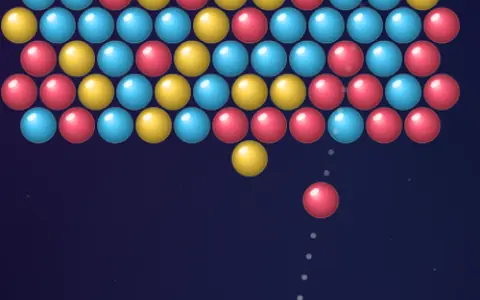
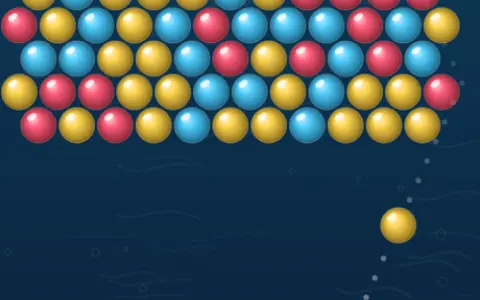
Final: restyled 9 games, easier starts, sw regen

diff --git a/sw.js b/sw.js
@@ -1,5 +1,5 @@
 // 离线缓存：首次访问后全部游戏都可断网游玩（GitHub Pages / 任意 https 静态托管）
-const V='neon-de1ac2ac08',FILES=["./", "2048/game.js", "2048/index.html", "asteroids/game.js", "asteroids/index.html", "balloon/game.js", "balloon/index.html", "battleship/game.js", "battleship/index.html", "boat/game.js", "boat/index.html", "bomber/game.js", "bomber/index.html", "breakout/game.js", "breakout/index.html", "bubble/game.js", "bubble/index.html", "charades/game.js", "charades/index.html", "chess/engine.js", "chess/game.js", "chess/index.html", "colorcards/game.js", "colorcards/index.html", "common/art.js", "common/hub.css", "common/hub.js", "common/i18n.js", "common/party.js", "connect4/game.js", "connect4/index.html", "doudizhu/game.js", "doudizhu/index.html", "draw/game.js", "draw/index.html", "echobat/game.js", "echobat/index.html", "fishy/game.js", "fishy/index.html", "flappy/game.js", "flappy/index.html", "freecell/game.js", "freecell/index.html", "goldminer/game.js", "goldminer/index.html", "golf/game.js", "golf/index.html", "gomoku/game.js", "gomoku/index.html", "hex2048/game.js", "hex2048/index.html", "hockey/game.js", "hockey/index.html", "icons/apple-touch-icon.png", "icons/icon-192.png", "icons/icon-512.png", "icons/icon.svg", "icons/maskable-512.png", "icons/og.png", "index.html", "jump/game.js", "jump/index.html", "klotski/game.js", "klotski/index.html", "knife/game.js", "knife/index.html", "lianliankan/game.js", "lianliankan/index.html", "lighthouse/game.js", "lighthouse/index.html", "lightsout/game.js", "lightsout/index.html", "ludo/game.js", "ludo/index.html", "mahjong/game.js", "mahjong/index.html", "manifest.webmanifest", "match3/game.js", "match3/index.html", "memory/game.js", "memory/index.html", "merge/game.js", "merge/index.html", "minesweeper/game.js", "minesweeper/index.html", "mirror/game.js", "mirror/index.html", "ninja/game.js", "ninja/index.html", "numbomb/game.js", "numbomb/index.html", "onestroke/game.js", "onestroke/index.html", "orbit/game.js", "orbit/index.html", "pacman/game.js", "pacman/index.html", "paint/game.js", "paint/index.html", "piano/game.js", "piano/index.html", "pinball/game.js", "pinball/index.html", "pipes/game.js", "pipes/index.html", "pong/game.js", "pong/index.html", "quiz/game.js", "quiz/index.html", "racer/game.js", "racer/index.html", "reflex/game.js", "reflex/index.html", "reversi/game.js", "reversi/index.html", "rhythm/game.js", "rhythm/index.html", "runner/game.js", "runner/index.html", "shooter/game.js", "shooter/index.html", "slingshot/game.js", "slingshot/index.html", "snake/game.js", "snake/index.html", "snowball/game.js", "snowball/index.html", "soccer/game.js", "soccer/index.html", "sokoban/game.js", "sokoban/index.html", "spider/game.js", "spider/index.html", "stack/game.js", "stack/index.html", "subway/game.js", "subway/index.html", "sudoku/game.js", "sudoku/index.html", "tangram/game.js", "tangram/index.html", "tank/game.js", "tank/index.html", "tetris/game.js", "tetris/index.html", "thumbs/2048.webp", "thumbs/asteroids.webp", "thumbs/balloon.webp", "thumbs/battleship.webp", "thumbs/boat.webp", "thumbs/bomber.webp", "thumbs/breakout.webp", "thumbs/bubble.webp", "thumbs/charades.webp", "thumbs/chess.webp", "thumbs/colorcards.webp", "thumbs/connect4.webp", "thumbs/doudizhu.webp", "thumbs/draw.webp", "thumbs/echobat.webp", "thumbs/fishy.webp", "thumbs/flappy.webp", "thumbs/freecell.webp", "thumbs/goldminer.webp", "thumbs/golf.webp", "thumbs/gomoku.webp", "thumbs/hex2048.webp", "thumbs/hockey.webp", "thumbs/jump.webp", "thumbs/klotski.webp", "thumbs/knife.webp", "thumbs/lianliankan.webp", "thumbs/lighthouse.webp", "thumbs/lightsout.webp", "thumbs/ludo.webp", "thumbs/mahjong.webp", "thumbs/match3.webp", "thumbs/memory.webp", "thumbs/merge.webp", "thumbs/minesweeper.webp", "thumbs/mirror.webp", "thumbs/ninja.webp", "thumbs/numbomb.webp", "thumbs/onestroke.webp", "thumbs/orbit.webp", "thumbs/pacman.webp", "thumbs/paint.webp", "thumbs/piano.webp", "thumbs/pinball.webp", "thumbs/pipes.webp", "thumbs/pong.webp", "thumbs/quiz.webp", "thumbs/racer.webp", "thumbs/reflex.webp", "thumbs/reversi.webp", "thumbs/rhythm.webp", "thumbs/runner.webp", "thumbs/shooter.webp", "thumbs/slingshot.webp", "thumbs/snake.webp", "thumbs/snowball.webp", "thumbs/soccer.webp", "thumbs/sokoban.webp", "thumbs/spider.webp", "thumbs/stack.webp", "thumbs/subway.webp", "thumbs/sudoku.webp", "thumbs/tangram.webp", "thumbs/tank.webp", "thumbs/tetris.webp", "thumbs/towerdef.webp", "thumbs/truth.webp", "thumbs/undercover.webp", "thumbs/uttt.webp", "thumbs/werewolf.webp", "thumbs/whack.webp", "thumbs/xiangqi.webp", "towerdef/game.js", "towerdef/index.html", "truth/game.js", "truth/index.html", "undercover/game.js", "undercover/index.html", "uttt/game.js", "uttt/index.html", "werewolf/game.js", "werewolf/index.html", "whack/game.js", "whack/index.html", "xiangqi/game.js", "xiangqi/index.html"];
+const V='neon-ce772de456',FILES=["./", "2048/game.js", "2048/index.html", "asteroids/game.js", "asteroids/index.html", "balloon/game.js", "balloon/index.html", "battleship/game.js", "battleship/index.html", "boat/game.js", "boat/index.html", "bomber/game.js", "bomber/index.html", "breakout/game.js", "breakout/index.html", "bubble/game.js", "bubble/index.html", "charades/game.js", "charades/index.html", "chess/engine.js", "chess/game.js", "chess/index.html", "colorcards/game.js", "colorcards/index.html", "common/art.js", "common/hub.css", "common/hub.js", "common/i18n.js", "common/party.js", "connect4/game.js", "connect4/index.html", "doudizhu/game.js", "doudizhu/index.html", "draw/game.js", "draw/index.html", "echobat/game.js", "echobat/index.html", "fishy/game.js", "fishy/index.html", "flappy/game.js", "flappy/index.html", "freecell/game.js", "freecell/index.html", "goldminer/game.js", "goldminer/index.html", "golf/game.js", "golf/index.html", "gomoku/game.js", "gomoku/index.html", "hex2048/game.js", "hex2048/index.html", "hockey/game.js", "hockey/index.html", "icons/apple-touch-icon.png", "icons/icon-192.png", "icons/icon-512.png", "icons/icon.svg", "icons/maskable-512.png", "icons/og.png", "index.html", "jump/game.js", "jump/index.html", "klotski/game.js", "klotski/index.html", "knife/game.js", "knife/index.html", "lianliankan/game.js", "lianliankan/index.html", "lighthouse/game.js", "lighthouse/index.html", "lightsout/game.js", "lightsout/index.html", "ludo/game.js", "ludo/index.html", "mahjong/game.js", "mahjong/index.html", "manifest.webmanifest", "match3/game.js", "match3/index.html", "memory/game.js", "memory/index.html", "merge/game.js", "merge/index.html", "minesweeper/game.js", "minesweeper/index.html", "mirror/game.js", "mirror/index.html", "ninja/game.js", "ninja/index.html", "numbomb/game.js", "numbomb/index.html", "onestroke/game.js", "onestroke/index.html", "orbit/game.js", "orbit/index.html", "pacman/game.js", "pacman/index.html", "paint/game.js", "paint/index.html", "piano/game.js", "piano/index.html", "pinball/game.js", "pinball/index.html", "pipes/game.js", "pipes/index.html", "pong/game.js", "pong/index.html", "quiz/game.js", "quiz/index.html", "racer/game.js", "racer/index.html", "reflex/game.js", "reflex/index.html", "reversi/game.js", "reversi/index.html", "rhythm/game.js", "rhythm/index.html", "runner/game.js", "runner/index.html", "shooter/game.js", "shooter/index.html", "slingshot/game.js", "slingshot/index.html", "snake/game.js", "snake/index.html", "snowball/game.js", "snowball/index.html", "soccer/game.js", "soccer/index.html", "sokoban/game.js", "sokoban/index.html", "spider/game.js", "spider/index.html", "stack/game.js", "stack/index.html", "subway/game.js", "subway/index.html", "sudoku/game.js", "sudoku/index.html", "tangram/game.js", "tangram/index.html", "tank/game.js", "tank/index.html", "tetris/game.js", "tetris/index.html", "thumbs/2048.webp", "thumbs/asteroids.webp", "thumbs/balloon.webp", "thumbs/battleship.webp", "thumbs/boat.webp", "thumbs/bomber.webp", "thumbs/breakout.webp", "thumbs/bubble.webp", "thumbs/charades.webp", "thumbs/chess.webp", "thumbs/colorcards.webp", "thumbs/connect4.webp", "thumbs/doudizhu.webp", "thumbs/draw.webp", "thumbs/echobat.webp", "thumbs/fishy.webp", "thumbs/flappy.webp", "thumbs/freecell.webp", "thumbs/goldminer.webp", "thumbs/golf.webp", "thumbs/gomoku.webp", "thumbs/hex2048.webp", "thumbs/hockey.webp", "thumbs/jump.webp", "thumbs/klotski.webp", "thumbs/knife.webp", "thumbs/lianliankan.webp", "thumbs/lighthouse.webp", "thumbs/lightsout.webp", "thumbs/ludo.webp", "thumbs/mahjong.webp", "thumbs/match3.webp", "thumbs/memory.webp", "thumbs/merge.webp", "thumbs/minesweeper.webp", "thumbs/mirror.webp", "thumbs/ninja.webp", "thumbs/numbomb.webp", "thumbs/onestroke.webp", "thumbs/orbit.webp", "thumbs/pacman.webp", "thumbs/paint.webp", "thumbs/piano.webp", "thumbs/pinball.webp", "thumbs/pipes.webp", "thumbs/pong.webp", "thumbs/quiz.webp", "thumbs/racer.webp", "thumbs/reflex.webp", "thumbs/reversi.webp", "thumbs/rhythm.webp", "thumbs/runner.webp", "thumbs/shooter.webp", "thumbs/slingshot.webp", "thumbs/snake.webp", "thumbs/snowball.webp", "thumbs/soccer.webp", "thumbs/sokoban.webp", "thumbs/spider.webp", "thumbs/stack.webp", "thumbs/subway.webp", "thumbs/sudoku.webp", "thumbs/tangram.webp", "thumbs/tank.webp", "thumbs/tetris.webp", "thumbs/towerdef.webp", "thumbs/truth.webp", "thumbs/undercover.webp", "thumbs/uttt.webp", "thumbs/werewolf.webp", "thumbs/whack.webp", "thumbs/xiangqi.webp", "towerdef/game.js", "towerdef/index.html", "truth/game.js", "truth/index.html", "undercover/game.js", "undercover/index.html", "uttt/game.js", "uttt/index.html", "werewolf/game.js", "werewolf/index.html", "whack/game.js", "whack/index.html", "xiangqi/game.js", "xiangqi/index.html"];
 self.addEventListener('install',e=>{e.waitUntil(caches.open(V).then(c=>c.addAll(FILES)).then(()=>self.skipWaiting()))});
 self.addEventListener('activate',e=>{e.waitUntil(caches.keys().then(ks=>Promise.all(ks.filter(k=>k!==V).map(k=>caches.delete(k)))).then(()=>self.clients.claim()))});
 self.addEventListener('fetch',e=>{if(e.request.method!=='GET')return;e.respondWith(caches.match(e.request,{ignoreSearch:true}).then(r=>r||fetch(e.request).then(res=>{if(res.ok&&new URL(e.request.url).origin===location.origin){const cp=res.clone();caches.open(V).then(c=>c.put(e.request,cp))}return res}).catch(()=>caches.match('./index.html'))))});

diff --git a/common/art.js b/common/art.js
@@ -35,8 +35,8 @@ const BG={};A.bg=(x,W,H,t,th={})=>{const k=W+'x'+H+(th.key||'');let b=BG[k];if(!
  for(const s of b.stars){x.fillStyle=`rgba(220,230,255,${.25+.35*Math.abs(Math.sin(t/1400+s.p))})`;x.fillRect(s.x,s.y,s.s,s.s)}};
 
 // ===== 游戏专属皮肤：纸张/木纹/绒布/像素/海图，替代通用霓虹玻璃背景 =====
-A.SKINS={paint:'paper',uttt:'paper',onestroke:'wood',battleship:'chart',connect4:'wood',knife:'wood',colorcards:'felt',doudizhu:'felt',snake:'pixel',tetris:'pixel',breakout:'pixel',chess:'wood',mahjong:'felt',tank:'pixel',bomber:'pixel',tangram:'wood'};
-A.skin=()=>{const id=window.Hub&&Hub.id;return id&&A.SKINS[id]};
+A.SKINS={lightsout:'chalk','2048':'felt',hex2048:'honey',bubble:'ocean',pipes:'blueprint',match3:'candy',sokoban:'concrete',sudoku:'chalk',paint:'paper',uttt:'paper',onestroke:'wood',battleship:'chart',connect4:'wood',knife:'wood',colorcards:'felt',doudizhu:'felt',snake:'pixel',tetris:'pixel',breakout:'pixel',chess:'wood',mahjong:'felt',tank:'pixel',bomber:'pixel',tangram:'wood'};
+A.skin=()=>{const id=window.Hub&&Hub.id&&Hub.id.split('_')[0];return id&&A.SKINS[id]};
 A.rnd=(s=>()=>(s=(s*16807)%2147483647)/2147483647)(1234567);
 A.wline=(x,x1,y1,x2,y2,j=1.6,seed=0)=>{const r=k=>Math.sin(seed*12.9898+k*78.233)*43758.5453%1;const mx=(x1+x2)/2+r(1)*j*2,my=(y1+y2)/2+r(2)*j*2;x.beginPath();x.moveTo(x1+r(3)*j,y1+r(4)*j);x.quadraticCurveTo(mx,my,x2+r(5)*j,y2+r(6)*j);x.stroke()};
 A.wcircle=(x,X,Y,R,j=1.5,seed=0)=>{x.beginPath();const n=18;for(let i=0;i<=n+2;i++){const a=i/n*Math.PI*2+seed,rr=R+Math.sin(a*3+seed*7)*j+(i>n?j*1.5:0);i?x.lineTo(X+Math.cos(a)*rr,Y+Math.sin(a)*rr):x.moveTo(X+Math.cos(a)*rr,Y+Math.sin(a)*rr)}x.stroke()};
@@ -56,6 +56,17 @@ A.tex=(kind,W,H)=>{const k=kind+W+'x'+H;if(TX[k])return TX[k];const c=document.c
   g.strokeStyle='rgba(255,230,160,.25)';g.setLineDash([6,5]);g.lineWidth=1.5;g.strokeRect(12,12,W-24,H-24);g.setLineDash([])}
  else if(kind==='pixel'){g.fillStyle='#0d1117';g.fillRect(0,0,W,H);for(let y=0;y<H;y+=8)for(let X=0;X<W;X+=8)if(((X+y)/8)%2===0){g.fillStyle='rgba(80,255,160,.025)';g.fillRect(X,y,8,8)}
   for(let i=0;i<30;i++){g.fillStyle=['#ff4d6d','#ffcf3a','#4dffc3','#5ee7ff'][i%4];g.globalAlpha=.25;const X=(R()*W/8|0)*8,Y=(R()*H/8|0)*8;g.fillRect(X,Y,4,4)}g.globalAlpha=1}
+
+ else if(kind==='chalk'){g.fillStyle='#24382f';g.fillRect(0,0,W,H);noise(W*H/8,'#fff',.05);for(let i=0;i<26;i++){g.strokeStyle=`rgba(255,255,255,${.03+R()*.05})`;g.lineWidth=8+R()*30;g.lineCap='round';g.beginPath();const X=R()*W,Y=R()*H;g.moveTo(X,Y);g.quadraticCurveTo(X+R()*120-60,Y+R()*40-20,X+R()*200-100,Y+R()*60-30);g.stroke()}
+  g.fillStyle='#fff';g.font='italic 16px serif';const sc=['a²+b²=c²','∑','π≈3.14','x→∞','★','✓','3×3'];for(let i=0;i<9;i++){g.globalAlpha=.12+R()*.1;g.save();g.translate(R()*W,R()*H);g.rotate(R()*.6-.3);g.fillText(sc[i%sc.length],0,0);g.restore()}g.globalAlpha=1;g.strokeStyle='#6b4a2a';g.lineWidth=10;g.strokeRect(0,0,W,H)}
+ else if(kind==='ocean'){const gr=g.createLinearGradient(0,0,0,H);gr.addColorStop(0,'#0f5c78');gr.addColorStop(1,'#06233a');g.fillStyle=gr;g.fillRect(0,0,W,H);for(let i=0;i<60;i++){g.strokeStyle=`rgba(160,240,255,${.04+R()*.07})`;g.lineWidth=1+R()*2;g.beginPath();const X=R()*W,Y=R()*H*.6;g.moveTo(X,Y);g.bezierCurveTo(X+20,Y+R()*20,X+40,Y-R()*20,X+60+R()*30,Y+R()*10);g.stroke()}
+  for(let i=0;i<40;i++){g.strokeStyle='rgba(200,250,255,.18)';g.lineWidth=1;g.beginPath();g.arc(R()*W,R()*H,1+R()*4,0,7);g.stroke()}g.fillStyle='rgba(20,60,50,.6)';for(let i=0;i<8;i++){const X=R()*W;g.beginPath();g.moveTo(X,H);g.quadraticCurveTo(X+20*R()-10,H-60-R()*90,X+8,H);g.fill()}}
+ else if(kind==='candy'){g.fillStyle='#3a1238';g.fillRect(0,0,W,H);for(let i=-H;i<W;i+=36){g.strokeStyle='rgba(255,120,190,.07)';g.lineWidth=14;g.beginPath();g.moveTo(i,0);g.lineTo(i+H,H);g.stroke()}for(let i=0;i<70;i++){g.fillStyle=['#ff6ab0','#ffd45c','#7fe0ff','#b78cff'][i%4];g.globalAlpha=.18;g.save();g.translate(R()*W,R()*H);g.rotate(R()*3);g.fillRect(-5,-1.5,10,3);g.restore()}g.globalAlpha=1}
+ else if(kind==='honey'){g.fillStyle='#3a2208';g.fillRect(0,0,W,H);const r=18,hh=r*Math.sqrt(3);for(let y=-hh;y<H+hh;y+=hh)for(let X=-r*3,k2=0;X<W+r*3;X+=r*1.5,k2++){const Y=y+(k2%2?hh/2:0);g.beginPath();for(let a=0;a<6;a++)g.lineTo(X+Math.cos(a*Math.PI/3)*r*.92,Y+Math.sin(a*Math.PI/3)*r*.92);g.closePath();g.fillStyle=`rgba(255,${170+R()*40|0},40,${.05+R()*.12})`;g.fill();g.strokeStyle='rgba(255,200,90,.12)';g.stroke()}}
+ else if(kind==='blueprint'){g.fillStyle='#163a6e';g.fillRect(0,0,W,H);g.lineWidth=1;g.strokeStyle='rgba(200,225,255,.08)';for(let i=0;i<W;i+=12){g.beginPath();g.moveTo(i+.5,0);g.lineTo(i+.5,H);g.stroke()}for(let i=0;i<H;i+=12){g.beginPath();g.moveTo(0,i+.5);g.lineTo(W,i+.5);g.stroke()}g.strokeStyle='rgba(200,225,255,.18)';for(let i=0;i<W;i+=60){g.beginPath();g.moveTo(i+.5,0);g.lineTo(i+.5,H);g.stroke()}for(let i=0;i<H;i+=60){g.beginPath();g.moveTo(0,i+.5);g.lineTo(W,i+.5);g.stroke()}
+  g.strokeStyle='rgba(230,240,255,.35)';g.strokeRect(14,H-74,150,60);g.font='10px monospace';g.fillStyle='rgba(230,240,255,.5)';g.fillText('PLUMBING · REV.B',22,H-54);g.fillText('SCALE 1:20',22,H-38);g.fillText('DWG Nº 042',22,H-22)}
+ else if(kind==='concrete'){g.fillStyle='#3b3a40';g.fillRect(0,0,W,H);noise(W*H/5,'#000',.18);noise(W*H/9,'#bbb',.08);g.strokeStyle='rgba(0,0,0,.35)';g.lineWidth=2;for(let i=0;i<W;i+=80){g.beginPath();g.moveTo(i,0);g.lineTo(i,H);g.stroke()}for(let i=0;i<H;i+=80){g.beginPath();g.moveTo(0,i);g.lineTo(W,i);g.stroke()}
+  g.save();g.translate(0,H-26);for(let i=-20;i<W;i+=28){g.fillStyle='#e6b422';g.beginPath();g.moveTo(i,0);g.lineTo(i+14,0);g.lineTo(i+28,26);g.lineTo(i+14,26);g.fill()}g.restore();g.globalAlpha=.25;g.fillStyle='#e6b422';g.font='bold 40px sans-serif';g.fillText('B-07',W-110,70);g.globalAlpha=1}
  return TX[k]=c};
 const BG0=A.bg;A.bg=(x,W,H,t,th={})=>{const sk=A.skin();if(!sk)return BG0(x,W,H,t,th);x.drawImage(A.tex(sk,W,H),0,0);
  if(sk==='pixel'){x.fillStyle='rgba(0,0,0,.18)';for(let y=(t/40|0)%3;y<H;y+=3)x.fillRect(0,y,W,1)}
@@ -67,6 +78,8 @@ const PN0=A.panel;A.panel=(x,X,Y,w,h,r)=>{const sk=A.skin();if(!sk)return PN0(x,
  else if(sk==='wood'){const g=x.createLinearGradient(0,Y,0,Y+h);g.addColorStop(0,'#3a1f0e');g.addColorStop(1,'#24120a');x.fillStyle=g;A.rr(x,X,Y,w,h,r||10);x.fill();x.strokeStyle='#c99a4e';x.lineWidth=2;A.rr(x,X+3,Y+3,w-6,h-6,(r||10)-3);x.stroke();x.fillStyle='#e0b86a';for(const[a,b]of[[X+9,Y+9],[X+w-9,Y+9],[X+9,Y+h-9],[X+w-9,Y+h-9]]){x.beginPath();x.arc(a,b,2.2,0,7);x.fill()}}
  else if(sk==='felt'){x.fillStyle='rgba(0,0,0,.25)';A.rr(x,X+2,Y+4,w,h,r||12);x.fill();const g=x.createLinearGradient(0,Y,0,Y+h);g.addColorStop(0,'#5a2a1a');g.addColorStop(1,'#3a170c');x.fillStyle=g;A.rr(x,X,Y,w,h,r||12);x.fill();x.strokeStyle='rgba(255,220,150,.5)';x.setLineDash([4,4]);x.lineWidth=1.2;A.rr(x,X+4,Y+4,w-8,h-8,(r||12)-4);x.stroke();x.setLineDash([])}
  else if(sk==='pixel'){x.fillStyle='#1a1f2e';x.fillRect(X,Y,w,h);x.fillStyle='#4dffc3';x.fillRect(X,Y,w,3);x.fillRect(X,Y+h-3,w,3);x.fillRect(X,Y,3,h);x.fillRect(X+w-3,Y,3,h);x.fillStyle='#0d1117';x.fillRect(X,Y,3,3);x.fillRect(X+w-3,Y,3,3);x.fillRect(X,Y+h-3,3,3);x.fillRect(X+w-3,Y+h-3,3,3)}
+ else if(sk==='chalk'){x.fillStyle='rgba(0,0,0,.25)';A.rr(x,X+3,Y+4,w,h,r||10);x.fill();x.fillStyle='#1c2e26';A.rr(x,X,Y,w,h,r||10);x.fill();x.strokeStyle='rgba(255,255,255,.5)';x.lineWidth=1.6;A.wline(x,X+6,Y+5,X+w-6,Y+6,1.2,X);A.wline(x,X+w-5,Y+6,X+w-6,Y+h-6,1.2,Y);A.wline(x,X+w-6,Y+h-5,X+6,Y+h-6,1.2,w);A.wline(x,X+5,Y+h-6,X+6,Y+6,1.2,h)}
+ else{x.restore();return PN0(x,X,Y,w,h,r)}
  x.restore()};
 A.vignette=(x,W,H,a=.55)=>{const g=x.createRadialGradient(W/2,H/2,Math.min(W,H)*.35,W/2,H/2,Math.max(W,H)*.75);g.addColorStop(0,'rgba(0,0,0,0)');g.addColorStop(1,`rgba(0,0,0,${a})`);x.fillStyle=g;x.fillRect(0,0,W,H)};
 // 粒子系统（圆形、带缓动淡出、可发光）
@@ -133,3 +146,7 @@ A.card=(x,X,Y,w,h,rank,s,o={})=>{const r=Math.max(4,w*.09);x.save();if(o.lift){x
  if(o.dim){x.fillStyle='rgba(10,12,40,.35)';A.rr(x,X,Y,w,h,r);x.fill()}x.restore()};
 A.slot=(x,X,Y,w,h,label)=>{const r=Math.max(4,w*.09);x.strokeStyle='rgba(255,255,255,.22)';x.lineWidth=1.5;x.setLineDash([5,4]);A.rr(x,X,Y,w,h,r);x.stroke();x.setLineDash([]);x.fillStyle='rgba(255,255,255,.04)';A.rr(x,X,Y,w,h,r);x.fill();if(label)A.text(x,label,X+w/2,Y+h/2,Math.round(w*.2),'rgba(255,255,255,.3)',{w:800,shadow:false})};
 })(window.Art);
+
+// 透明画布 / DOM 游戏：把皮肤纹理铺到页面背景上
+Art.CSSSKIN=['2048','pipes','match3','sokoban','sudoku'];
+addEventListener('load',()=>{try{const id=window.Hub&&Hub.id&&Hub.id.split('_')[0];if(!id||!Art.CSSSKIN.includes(id))return;const sk=Art.SKINS[id];const c=Art.tex(sk,480,860);document.body.style.background=`#111 url(${c.toDataURL('image/jpeg',.85)}) center/cover fixed`;document.body.classList.add('skin-'+sk)}catch(e){}});

diff --git a/pong/game.js b/pong/game.js
@@ -20,15 +20,20 @@ function update(dt){const sp=9;
  trail.push({x:ball.x,y:ball.y});if(trail.length>14)trail.shift()}
 const PS=new Art.Particles();
 function draw(){const A=Art,tm=performance.now();x.save();if(shake>0){x.translate((Math.random()-.5)*shake,(Math.random()-.5)*shake);shake*=.85;if(shake<.5)shake=0}
- const g=x.createLinearGradient(0,0,0,H);g.addColorStop(0,'#2a1458');g.addColorStop(.5,'#1a1650');g.addColorStop(1,'#0e2a5a');x.fillStyle=g;x.fillRect(-20,-20,W+40,H+40);
- x.strokeStyle='rgba(255,255,255,.06)';x.lineWidth=1;for(let i=40;i<W;i+=40){x.beginPath();x.moveTo(i,0);x.lineTo(i,H);x.stroke()}for(let i=40;i<H;i+=40){x.beginPath();x.moveTo(0,i);x.lineTo(W,i);x.stroke()}
- x.strokeStyle='rgba(255,255,255,.35)';x.lineWidth=3;A.rr(x,10,10,W-20,H-20,22);x.stroke();x.beginPath();x.moveTo(10,H/2);x.lineTo(W-10,H/2);x.stroke();x.beginPath();x.arc(W/2,H/2,56,0,7);x.stroke();
- A.text(x,String(s2),W/2,H/2-130,110,'rgba(255,106,213,.22)',{shadow:false});A.text(x,String(s1),W/2,H/2+130,110,'rgba(94,231,255,.22)',{shadow:false});
- for(const[p,c]of[[p1,'#5ee7ff'],[p2,'#ff6ad5']]){x.save();x.shadowColor=c;x.shadowBlur=22;A.tile(x,p.x-PW/2,p.y-PH/2,PW,PH+2,PH/2+1,c,{depth:4});x.restore()}
- trail.forEach((t,i)=>{x.globalAlpha=i/trail.length*.45;x.fillStyle='#ffe9a0';x.beginPath();x.arc(t.x,t.y,8*i/trail.length,0,7);x.fill()});x.globalAlpha=1;
- if(ball)A.orb(x,ball.x,ball.y,9,'#ffcf5c',{glow:18,shadow:false});
- parts=parts.filter(p=>(p.x+=p.vx,p.y+=p.vy,p.l--)>0);parts.forEach(p=>{x.globalAlpha=p.l/25;x.fillStyle=p.c;x.beginPath();x.arc(p.x,p.y,2,0,7);x.fill()});x.globalAlpha=1;PS.draw(x);
- A.text(x,MODES[mode]+' · 先得 7 分获胜',W/2,H/2+76,12,'rgba(230,234,255,.6)',{w:600,shadow:false});x.restore();x.textAlign='left'}
+ // 复古 CRT 街机屏：荧光绿像素、虚线中线、扫描线与暗角
+ x.fillStyle='#050a06';x.fillRect(-20,-20,W+40,H+40);const G='#7dff9a',px=6;
+ x.fillStyle='rgba(125,255,154,.05)';for(let i=0;i<W;i+=px*2)for(let j=(i/px/2%2)*px;j<H;j+=px*4)x.fillRect(i,j,1,1);
+ x.fillStyle=G;x.globalAlpha=.55;for(let i=8;i<W-8;i+=px*3)x.fillRect(i,H/2-px/2,px*1.6,px);x.globalAlpha=1;
+ x.strokeStyle='rgba(125,255,154,.35)';x.lineWidth=px/2;x.strokeRect(10,10,W-20,H-20);
+ const dig=(n,X,Y,c)=>{const F=['111101101101111','010110010010111','111001111100111','111001111001111','101101111001001','111100111001111','111100111101111','111001001001001','111101111101111','111101111001111'];String(n).split('').forEach((d,k)=>{const f=F[+d],w=String(n).length;for(let q=0;q<15;q++)if(f[q]==='1'){x.fillStyle=c;x.fillRect(X+(k-w/2)*px*4.5+(q%3)*px*1.4,Y+((q/3)|0)*px*1.4,px*1.3,px*1.3)}})};
+ x.globalAlpha=.35;dig(s2,W/2,H/2-150,G);dig(s1,W/2,H/2+110,G);x.globalAlpha=1;
+ for(const[p,c]of[[p1,'#7dff9a'],[p2,'#ffd23a']]){x.save();x.shadowColor=c;x.shadowBlur=14;x.fillStyle=c;const n=Math.round(PW/px);for(let k=0;k<n;k++)x.fillRect(Math.round((p.x-PW/2)/px)*px+k*px,p.y-PH/2,px-1,PH);x.restore()}
+ trail.forEach((t,i)=>{x.globalAlpha=i/trail.length*.35;x.fillStyle=G;x.fillRect(t.x-px/2,t.y-px/2,px,px)});x.globalAlpha=1;
+ if(ball){x.save();x.shadowColor='#fff';x.shadowBlur=16;x.fillStyle='#f4fff6';x.fillRect(Math.round(ball.x/3)*3-px*1.2,Math.round(ball.y/3)*3-px*1.2,px*2.4,px*2.4);x.restore()}
+ parts=parts.filter(p=>(p.x+=p.vx,p.y+=p.vy,p.l--)>0);parts.forEach(p=>{x.globalAlpha=p.l/25;x.fillStyle=G;x.fillRect(p.x,p.y,3,3)});x.globalAlpha=1;PS.draw(x);
+ x.fillStyle='rgba(0,0,0,.22)';for(let y=(tm/50|0)%3;y<H;y+=3)x.fillRect(0,y,W,1);
+ const vg=x.createRadialGradient(W/2,H/2,Math.min(W,H)*.35,W/2,H/2,Math.max(W,H)*.75);vg.addColorStop(0,'rgba(0,0,0,0)');vg.addColorStop(1,'rgba(0,0,0,.7)');x.fillStyle=vg;x.fillRect(0,0,W,H);
+ A.text(x,MODES[mode]+' · 先得 7 分获胜',W/2,H/2+76,12,'rgba(125,255,154,.7)',{w:600,shadow:false});x.restore();x.textAlign='left'}
 function loop(t){requestAnimationFrame(loop);const dt=Math.min(3,(t-last)/16.67);last=t;if(Hub.active())update(dt);draw()}
 Hub.init({duo:()=>mode===0,id:'pong',title:'霓虹乒乓',help:'下方青色球拍是你：←→ 或 鼠标/手指拖动下半屏。双人模式：上方玩家用 A/D 或拖动上半屏。击球位置越靠边，反弹角度越大，球会越来越快。先得 7 分获胜。<br>选择模式：',onStart(){reset()},onResume(){last=performance.now()}});
 reset();requestAnimationFrame(loop);

diff --git a/snowball/game.js b/snowball/game.js
@@ -3,12 +3,12 @@ const cv=document.getElementById('c'),x=cv.getContext('2d'),W=420,H0=720;let H=H
 function fit(){H=Hub.flex(W,H0).H;Hub.fit(cv,W,H)}addEventListener('resize',fit);fit();
 const L=Hub.L,PS=new Art.Particles(),FL=new Art.Floaters();
 let b,obs,scroll,last,score,dist,dead,keys={},tx=null,spawnY,spd,trk;
-function reset(){b={x:W/2,r:24,rot:0,sq:1};obs=[];scroll=0;dist=0;score=0;dead=0;spawnY=0;spd=3;trk=[];last=performance.now();Hub.setScore(0)}
+function reset(){b={x:W/2,r:28,rot:0,sq:1};obs=[];scroll=0;dist=0;score=0;dead=0;spawnY=0;spd=3;trk=[];last=performance.now();Hub.setScore(0)}
 function spawn(){const k=Math.random();const X=40+Math.random()*(W-80);
  if(k<.35)obs.push({t:'tree',x:X,y:-40,s:.7+Math.random()*.8});else if(k<.55)obs.push({t:'mud',x:X,y:-40,w:70+Math.random()*80,h:40+Math.random()*40});
- else if(k<.68)obs.push({t:'man',x:X,y:-40,s:1});else if(k<.8){const big=Math.random()<.6;obs.push({t:'gate',y:-40,need:big?Math.round(b.r+2+Math.random()*4):Math.max(14,Math.round(b.r-4)),big})}
+ else if(k<.68)obs.push({t:'man',x:X,y:-40,s:1});else if(k<.8&&dist>900){const big=Math.random()<.6;obs.push({t:'gate',y:-40,need:big?Math.round(b.r+2+Math.random()*4):Math.max(14,Math.round(b.r-4)),big})}
  else obs.push({t:'flake',x:X,y:-40})}
-function update(dt){spd=3+Math.min(4,dist/3000);const mv=spd*dt;scroll+=mv;dist+=mv;spawnY+=mv;if(spawnY>95-Math.min(40,dist/200)){spawnY=0;spawn()}
+function update(dt){spd=2.6+Math.min(4,dist/3500);const mv=spd*dt;scroll+=mv;dist+=mv;spawnY+=mv;if(spawnY>Math.max(60,150-dist/60)){spawnY=0;spawn()}
  let dir=(keys.ArrowLeft||keys.a?-1:0)+(keys.ArrowRight||keys.d?1:0);if(tx!==null)dir=Math.max(-1,Math.min(1,(tx-b.x)/30));b.x=Math.max(b.r,Math.min(W-b.r,b.x+dir*5*dt));
  const by=H*.72;let onMud=false;b.rot+=mv/b.r;b.sq+=(1-b.sq)*.2;
  for(const o of obs){o.y+=mv;if(o.done)continue;
@@ -18,7 +18,7 @@ function update(dt){spd=3+Math.min(4,dist/3000);const mv=spd*dt;scroll+=mv;dist+
   else{const R=o.t==='tree'?14*o.s:16;if(Math.hypot(b.x-o.x,by-o.y)<b.r+R*.8){o.done=1;const need=o.t==='tree'?18*o.s:22;
    if(b.r>=need){score+=o.t==='tree'?20:35;Hub.sfx('hit');Hub.vib(20);b.sq=.75;b.r+=o.t==='man'?3:0;PS.burst(o.x,o.y,o.t==='tree'?['#2f7a4a','#6a4a2a','#fff']:['#fff','#ff8a3d','#333'],22,{speed:4});FL.add(o.t==='man'?L('雪人吞噬！','Snowman absorbed!','Pupazzo inglobato!'):L('咔嚓！','Crunch!','Crac!'),o.x,o.y-30,'#3a5a9a')}
    else{b.r-=8;Hub.sfx('bad');Hub.vib([40,20,40]);PS.burst(b.x,by,['#fff','#cfe3ff'],30,{speed:4});FL.add(L('砰！','Bonk!','Bum!'),b.x,by-40,'#c03040');b.sq=1.4}}}}
- b.r+=(onMud?-.05:.02)*dt;b.r=Math.min(60,b.r);if(onMud&&Math.random()<.3)PS.burst(b.x,by+b.r,['#6a4a2a'],1,{speed:1.5});
+ b.r+=(onMud?-(dist<1500?.03:.05):.022)*dt;b.r=Math.min(60,b.r);if(onMud&&Math.random()<.3)PS.burst(b.x,by+b.r,['#6a4a2a'],1,{speed:1.5});
  trk.push({x:b.x,y:by,r:b.r});trk.forEach(t=>t.y+=mv);trk=trk.filter(t=>t.y<H+20);
  obs=obs.filter(o=>o.y<H+80);Hub.setScore(score+Math.floor(dist/20));
  b.r=Math.max(0,b.r);if(b.r<8&&!dead){dead=1;Hub.sfx('lose');PS.burst(b.x,by,['#fff'],40,{speed:5});Hub.later(700,()=>Hub.gameOver(score+Math.floor(dist/20),L('雪球化了','Your snowball melted','La palla si è sciolta')))}}

diff --git a/echobat/game.js b/echobat/game.js
@@ -3,13 +3,13 @@ const cv=document.getElementById('c'),x=cv.getContext('2d'),W=420,H0=720;let H=H
 function fit(){H=Hub.flex(W,H0).H;Hub.fit(cv,W,H)}addEventListener('resize',fit);fit();
 const L=Hub.L,PS=new Art.Particles(),FL=new Art.Floaters();const SEG=6;
 let bat,cave,off,pings,moths,score,en,last,speed,dist,dead,flapT,lit;
-function genCol(i){const t=i*.035;const gap=Math.max(150,260-i*.02);const mid=H/2+Math.sin(t)*H*.18+Math.sin(t*2.7+1)*H*.08;return{top:mid-gap/2+Math.sin(i*.4)*8,bot:mid+gap/2+Math.sin(i*.33+2)*8,spike:i>40&&Math.random()<.025?(Math.random()<.5?-1:1)*(25+Math.random()*35):0}}
+function genCol(i){const t=i*.035;const gap=Math.max(155,330-i*.06);const mid=H/2+Math.sin(t)*H*.18*Math.min(1,.4+i/600)+Math.sin(t*2.7+1)*H*.08*Math.min(1,i/400);return{top:mid-gap/2+Math.sin(i*.4)*8,bot:mid+gap/2+Math.sin(i*.33+2)*8,spike:i>40&&Math.random()<.025?(Math.random()<.5?-1:1)*(25+Math.random()*35):0}}
 function reset(){cave=[];for(let i=0;i<W/SEG+4;i++)cave.push(genCol(i));off=0;bat={y:H/2,vy:0,sq:1};pings=[];moths=[];score=0;en=1;speed=2.2;dist=0;dead=0;flapT=0;lit=new Float32Array(cave.length);last=performance.now();Hub.setScore(0)}
 let ci=0;
 function flap(){if(!Hub.active()||dead)return;bat.vy=-4.6;bat.sq=1.5;flapT=1;if(en>.12){en-=.12;pings.push({r:0,a:1});Hub.sfx('ping')}else Hub.sfx('click');Hub.vib(6)}
 function col(X){const i=Math.floor((X+off)/SEG)-ci;return cave[Math.max(0,Math.min(cave.length-1,i))]}
-function update(dt){speed=2.2+Math.min(2.2,dist/4000);off+=speed*dt;dist+=speed*dt;while(off>=SEG){off-=SEG;cave.shift();ci=0;cave.push(genCol(Math.floor(dist/SEG)+cave.length));const nl=new Float32Array(cave.length);nl.set(lit.subarray(1));lit=nl}
- bat.vy+=.22*dt;bat.y+=bat.vy*dt;bat.sq+=(1-bat.sq)*.15*dt;en=Math.min(1,en+.0025*dt);
+function update(dt){speed=1.8+Math.min(2.4,dist/5000);off+=speed*dt;dist+=speed*dt;while(off>=SEG){off-=SEG;cave.shift();ci=0;cave.push(genCol(Math.floor(dist/SEG)+cave.length));const nl=new Float32Array(cave.length);nl.set(lit.subarray(1));lit=nl}
+ bat.vy+=.2*dt;bat.y+=bat.vy*dt;bat.sq+=(1-bat.sq)*.15*dt;en=Math.min(1,en+(dist<1500?.005:.003)*dt);if(dist<600)for(let i=0;i<lit.length;i++)lit[i]=Math.max(lit[i],.55*(1-dist/600));
  const bx=110;for(const p of pings){p.r+=7*dt;p.a-=.012*dt}pings=pings.filter(p=>p.a>0);
  for(let i=0;i<cave.length;i++){const X=i*SEG-off;let v=lit[i]*Math.pow(.985,dt);for(const p of pings){const dT=Math.hypot(X-bx,cave[i].top-bat.y),dB=Math.hypot(X-bx,cave[i].bot-bat.y);if(Math.abs(dT-p.r)<12||Math.abs(dB-p.r)<12)v=Math.max(v,p.a)}lit[i]=v}
  if(Math.random()<.012*dt){const c=cave[cave.length-1];moths.push({x:W+10,y:c.top+30+Math.random()*(c.bot-c.top-60),ph:Math.random()*6})}

diff --git a/2048/game.js b/2048/game.js
@@ -1,9 +1,9 @@
 const N=4,B=document.getElementById('board');let g,score,won,busy=false;
-const st=document.createElement('style');st.textContent=`#board{position:relative;width:min(96vw,calc(100vh - 250px),500px);aspect-ratio:1;background:linear-gradient(180deg,#262c6e,#141640);border-radius:22px;box-shadow:0 24px 60px rgba(0,0,0,.55),inset 0 1px 0 rgba(255,255,255,.18),inset 0 -6px 0 rgba(0,0,0,.3),0 0 0 1px rgba(160,180,255,.15)}
+const st=document.createElement('style');st.textContent=`#board{position:relative;width:min(96vw,calc(100vh - 250px),500px);aspect-ratio:1;background:linear-gradient(180deg,#6a4428,#3e2614);border-radius:22px;box-shadow:0 24px 60px rgba(0,0,0,.55),inset 0 1px 0 rgba(255,255,255,.18),inset 0 -6px 0 rgba(0,0,0,.3),0 0 0 1px rgba(160,180,255,.15)}
 .cell,.tile{position:absolute;width:21.5%;height:21.5%;border-radius:14px}.cell{background:rgba(8,10,34,.55);box-shadow:inset 0 3px 6px rgba(0,0,0,.45)}
 .tile{display:flex;align-items:center;justify-content:center;font-weight:900;transition:left .11s cubic-bezier(.2,.8,.3,1),top .11s cubic-bezier(.2,.8,.3,1);color:#fff;font-size:min(9vw,44px);text-shadow:0 2px 0 rgba(0,0,0,.25);font-family:"SF Pro Display","PingFang SC","Microsoft YaHei",system-ui,sans-serif;letter-spacing:-1px}
 .tile.n{animation:pop .2s cubic-bezier(.3,1.6,.5,1)}.tile.m{animation:mg .2s}@keyframes pop{from{transform:scale(0)}}@keyframes mg{50%{transform:scale(1.16)}}`;document.head.appendChild(st);
-const PAL=[['#e9ecff','#b9c0ff','#2a2f6a'],['#d8dcff','#9aa3ff','#22286a'],['#7ff0ff','#2bb8e0'],['#7dffd6','#22c896'],['#a6ff7a','#4fc23a'],['#ffe27a','#f0a81c'],['#ffb36b','#f06a2a'],['#ff8fa3','#e0365a'],['#ff9be6','#d43ab0'],['#c3a6ff','#7a4ff0'],['#9ab4ff','#3f62f0'],['#ffffff','#ffcf5c']];
+const PAL=[['#fbf3e2','#e9d8b8','#5a3a22'],['#f6e4c0','#e0c08a','#5a3a22'],['#f4c27a','#d9913a'],['#ec9a5a','#c9632a'],['#e0704a','#a8401e'],['#c94f3a','#8a2a1a'],['#7fae8a','#4a7a5a'],['#4f9aa0','#2a6a72'],['#3f6a9a','#22406a'],['#7a5aa0','#4a3070'],['#d4a640','#9a7020'],['#fff6d8','#e8b840','#6a4210']];
 const col=v=>{const p=PAL[Math.min(11,Math.log2(v)-1)];return `background:linear-gradient(160deg,${p[0]},${p[1]});color:${p[2]||'#fff'};box-shadow:inset 0 2px 0 rgba(255,255,255,.55),inset 0 -5px 0 rgba(0,0,0,.22),0 6px 14px rgba(0,0,0,.35)${v>=128?`,0 0 ${Math.min(34,Math.log2(v)*3)}px ${p[1]}`:''}`};
 const pos=i=>2+i*24+'%';
 function empty(){const e=[];for(let r=0;r<N;r++)for(let c=0;c<N;c++)if(!g[r][c])e.push([r,c]);return e}

diff --git a/hex2048/game.js b/hex2048/game.js
@@ -2,7 +2,7 @@ const cv=document.getElementById('c'),x=cv.getContext('2d'),W=480,H0=640,R=2,HS=
 function fit(){H=Hub.flex(W,H0).H;CY=Math.round(H*.55);Hub.fit(cv,W,H)}addEventListener('resize',fit);fit();
 const PS=new Art.Particles(),FL=new Art.Floaters(),DIR=[[1,0],[1,-1],[0,-1],[-1,0],[-1,1],[0,1]];
 const CELLS=[];for(let q=-R;q<=R;q++)for(let r=-R;r<=R;r++)if(Math.abs(q+r)<=R)CELLS.push([q,r]);
-const COLS={2:'#7b8cff',4:'#6d7bff',8:'#4dd7ff',16:'#2fd1b0',32:'#4dffc3',64:'#a8ff5c',128:'#ffe23a',256:'#ffb21c',512:'#ff8a3d',1024:'#ff4d6d',2048:'#ff2d95',4096:'#c000ff'};
+const COLS={2:'#f6e3a8',4:'#f2cf6e',8:'#eeb43c',16:'#e39a1e',32:'#d47a14',64:'#c45a10',128:'#b23e1a',256:'#8a2e2a',512:'#6a8a3a',1024:'#3a7a6a',2048:'#2a5a8a',4096:'#5a2a7a'};
 let g,score,last,anim,hist,won,maxv;const K=(q,r)=>q+','+r,inB=(q,r)=>Math.abs(q)<=R&&Math.abs(r)<=R&&Math.abs(q+r)<=R;
 const pos=(q,r)=>[W/2+HS*Math.sqrt(3)*(q+r/2),CY+HS*1.5*r];
 function reset(){g={};score=0;hist=[];won=false;maxv=2;add();add();last=performance.now();Hub.setScore(0)}
@@ -27,7 +27,7 @@ function draw(){const A=Art,tm=performance.now();A.bg(x,W,H,tm,{stars:30,key:'he
   const sc=t.born!==undefined&&t.born<1?(t.born+=.1,Art.ease.back(Math.min(1,t.born))):t.pop!==undefined&&t.pop<1?(t.pop+=.08,1+Math.sin(t.pop*Math.PI)*.15):1;const c=COLS[t.v]||'#fff',s=(HS-5)*sc;
   hexPath(X,Y+4,s);x.fillStyle=Art.shade(c,-.45);x.fill();const gr=x.createLinearGradient(X,Y-s,X,Y+s);gr.addColorStop(0,Art.shade(c,.35));gr.addColorStop(1,c);hexPath(X,Y,s);x.fillStyle=gr;x.fill();
   x.save();hexPath(X,Y,s);x.clip();x.fillStyle='rgba(255,255,255,.25)';x.beginPath();x.ellipse(X,Y-s*.55,s*.8,s*.35,0,0,7);x.fill();x.restore();
-  A.text(x,String(t.v),X,Y+2,t.v>=1000?20:t.v>=100?24:28,t.v>=128?'#3a1a00':'#fff',{w:900})}
+  A.text(x,String(t.v),X,Y+2,t.v>=1000?20:t.v>=100?24:28,t.v<=8?'#5a3208':t.v>=256?'#fff7e0':'#fff',{w:900,shadow:t.v>8})}
  const by=CY+HS*R*1.6+60;if(by<H-30)A.text(x,'滑动六个方向合并 · 键盘 Q W E A S D',W/2,by,13,'#9aa3c8',{w:600});PS.draw(x);FL.draw(x)}
 function loop(t){requestAnimationFrame(loop);last=t;draw()}
 Hub.init({id:'hex2048',title:'六边形 2048',help:'在六边形棋盘上滑动，相同数字的方块会合并成两倍。共有六个滑动方向：手机上朝任意斜向滑动即可；键盘 W/S 向上下偏左右请用 Q E A D，或方向键左右。合成 2048 获胜，之后可继续冲击更高分。可撤销。',onStart(){reset()},onResume(){}});

diff --git a/sokoban/game.js b/sokoban/game.js
@@ -21,7 +21,7 @@ function draw(){const A=Art;x.clearRect(0,0,W,H);if(!g)return;A.text(x,'第 '+(l
  tbtn(W-182,8,82,34,1,'撤销');tbtn(W-92,8,82,34,0,'重来');
  const R=g.length,C=g[0].length,s=Math.min((W-20)/C,(H-TOPB-20)/R,64),ox=(W-C*s)/2,oy=TOPB+(H-TOPB-R*s)/2;
  for(let r=0;r<R;r++)for(let c=0;c<C;c++){const X=ox+c*s,Y=oy+r*s,ch=g[r][c];if(ch==='x'||ch==='#')continue;x.fillStyle=(r+c)%2?'#3b3364':'#352d5c';x.fillRect(X,Y,s+.5,s+.5);x.strokeStyle='rgba(0,0,0,.15)';x.strokeRect(X+.5,Y+.5,s-1,s-1)}
- for(let r=0;r<R;r++)for(let c=0;c<C;c++){const X=ox+c*s,Y=oy+r*s;if(g[r][c]==='#'){A.tile(x,X+1,Y+1,s-2,s-2,s*.16,'#6a5acd',{depth:s*.1});x.strokeStyle='rgba(0,0,0,.18)';x.lineWidth=1.5;x.beginPath();x.moveTo(X+3,Y+s*.45);x.lineTo(X+s-3,Y+s*.45);x.moveTo(X+s*.5,Y+3);x.lineTo(X+s*.5,Y+s*.45);x.moveTo(X+s*.3,Y+s*.45);x.lineTo(X+s*.3,Y+s*.85);x.moveTo(X+s*.75,Y+s*.45);x.lineTo(X+s*.75,Y+s*.85);x.stroke()}}
+ for(let r=0;r<R;r++)for(let c=0;c<C;c++){const X=ox+c*s,Y=oy+r*s;if(g[r][c]==='#'){A.tile(x,X+1,Y+1,s-2,s-2,s*.08,'#a2523a',{depth:s*.1});x.strokeStyle='rgba(0,0,0,.18)';x.lineWidth=1.5;x.beginPath();x.moveTo(X+3,Y+s*.45);x.lineTo(X+s-3,Y+s*.45);x.moveTo(X+s*.5,Y+3);x.lineTo(X+s*.5,Y+s*.45);x.moveTo(X+s*.3,Y+s*.45);x.lineTo(X+s*.3,Y+s*.85);x.moveTo(X+s*.75,Y+s*.45);x.lineTo(X+s*.75,Y+s*.85);x.stroke()}}
  const tm=performance.now();goals.forEach(([r,c])=>{const X=ox+c*s+s/2,Y=oy+r*s+s/2;x.fillStyle='rgba(77,255,195,.18)';x.beginPath();x.arc(X,Y,s*.3,0,7);x.fill();x.strokeStyle='#4dffc3';x.lineWidth=2.5;x.setLineDash([4,4]);x.lineDashOffset=-tm/60;x.beginPath();x.arc(X,Y,s*.26,0,7);x.stroke();x.setLineDash([]);x.fillStyle='#4dffc3';x.beginPath();x.arc(X,Y,s*.07,0,7);x.fill()});
  bx.forEach(([r,c])=>{const on=isG(r,c),X=ox+c*s,Y=oy+r*s,col=on?'#3fd8a0':'#e8a050';A.tile(x,X+s*.08,Y+s*.06,s*.84,s*.84,s*.12,col,{depth:s*.08});x.strokeStyle='rgba(60,30,0,.35)';x.lineWidth=s*.06;x.beginPath();x.moveTo(X+s*.2,Y+s*.2);x.lineTo(X+s*.8,Y+s*.78);x.moveTo(X+s*.8,Y+s*.2);x.lineTo(X+s*.2,Y+s*.78);x.stroke();x.strokeRect(X+s*.18,Y+s*.16,s*.64,s*.64);if(on){x.save();x.shadowColor='#4dffc3';x.shadowBlur=18;x.strokeStyle='rgba(77,255,195,.8)';x.lineWidth=2;A.rr(x,X+s*.08,Y+s*.06,s*.84,s*.84,s*.12);x.stroke();x.restore()}});
  const X=ox+pl[1]*s+s/2,Y=oy+pl[0]*s+s/2;anim*=.8;const R0=s*.34*(1+anim*.1);x.fillStyle='rgba(0,0,0,.3)';x.beginPath();x.ellipse(X,Y+R0*.85,R0*.8,R0*.25,0,0,7);x.fill();A.orb(x,X,Y,R0,'#5ee7ff',{shadow:false});

diff --git a/match3/game.js b/match3/game.js
@@ -22,7 +22,7 @@ const GK=[1,2,0,3,4,6],GC=['#ff4d6d','#3fc8ff','#ffcf3c','#3fe0a0','#b06bff','#f
 function draw(){if(!g)return;const A=Art,tm=performance.now();x.clearRect(0,0,W,H);
  A.panel(x,4,4,W-8,40,12);A.text(x,'剩余步数',16,24,13,'#9aa3c8',{align:'left',w:600});A.text(x,String(moves),88,24,22,moves<=5?'#ff6b6b':'#5ee7ff',{align:'left'});x.fillStyle='rgba(0,0,0,.35)';A.rr(x,W-180,18,160,10,5);x.fill();const pg=x.createLinearGradient(W-180,0,W-20,0);pg.addColorStop(0,'#8b7bff');pg.addColorStop(1,'#ff6ad5');x.fillStyle=pg;A.rr(x,W-180,18,Math.max(10,160*Math.min(1,score/3000)),10,5);x.fill();A.text(x,'目标 3000',W-100,38,10,'#9aa3c8',{w:600});
  const bg=x.createLinearGradient(0,50,0,H);bg.addColorStop(0,'#262c6e');bg.addColorStop(1,'#141640');x.fillStyle=bg;A.rr(x,0,50,W,N*S,14);x.fill();
- for(let r=0;r<N;r++)for(let c=0;c<N;c++){x.fillStyle=(r+c)%2?'rgba(8,10,34,.55)':'rgba(8,10,34,.35)';A.rr(x,c*S+2,r*S+52,S-4,S-4,9);x.fill()}
+ for(let r=0;r<N;r++)for(let c=0;c<N;c++){x.fillStyle=(r+c)%2?'rgba(255,140,200,.16)':'rgba(255,200,230,.08)';A.rr(x,c*S+2,r*S+52,S-4,S-4,9);x.fill()}
  for(let r=0;r<N;r++)for(let c=0;c<N;c++){const t=g[r][c];if(!t)continue;t.y+=(r-t.y)*.3;if(Math.abs(r-t.y)<.01)t.y=r;
   const X=c*S+S/2,Y=t.y*S+S/2+50,isS=sel&&sel[0]===r&&sel[1]===c,pul=isS?1+Math.sin(tm/100)*.08:1;if(isS){x.fillStyle='rgba(255,255,255,.18)';A.rr(x,c*S+2,r*S+52,S-4,S-4,9);x.fill()}A.gem(x,X,Y,S*.36,GK[t.v],GC[t.v],{scale:pul,glow:isS?18:0})}
  if(Hub.active()&&kb){x.strokeStyle='#ffcf5c';x.lineWidth=3;A.rr(x,cur[1]*S+2,cur[0]*S+52,S-4,S-4,9);x.stroke()}
